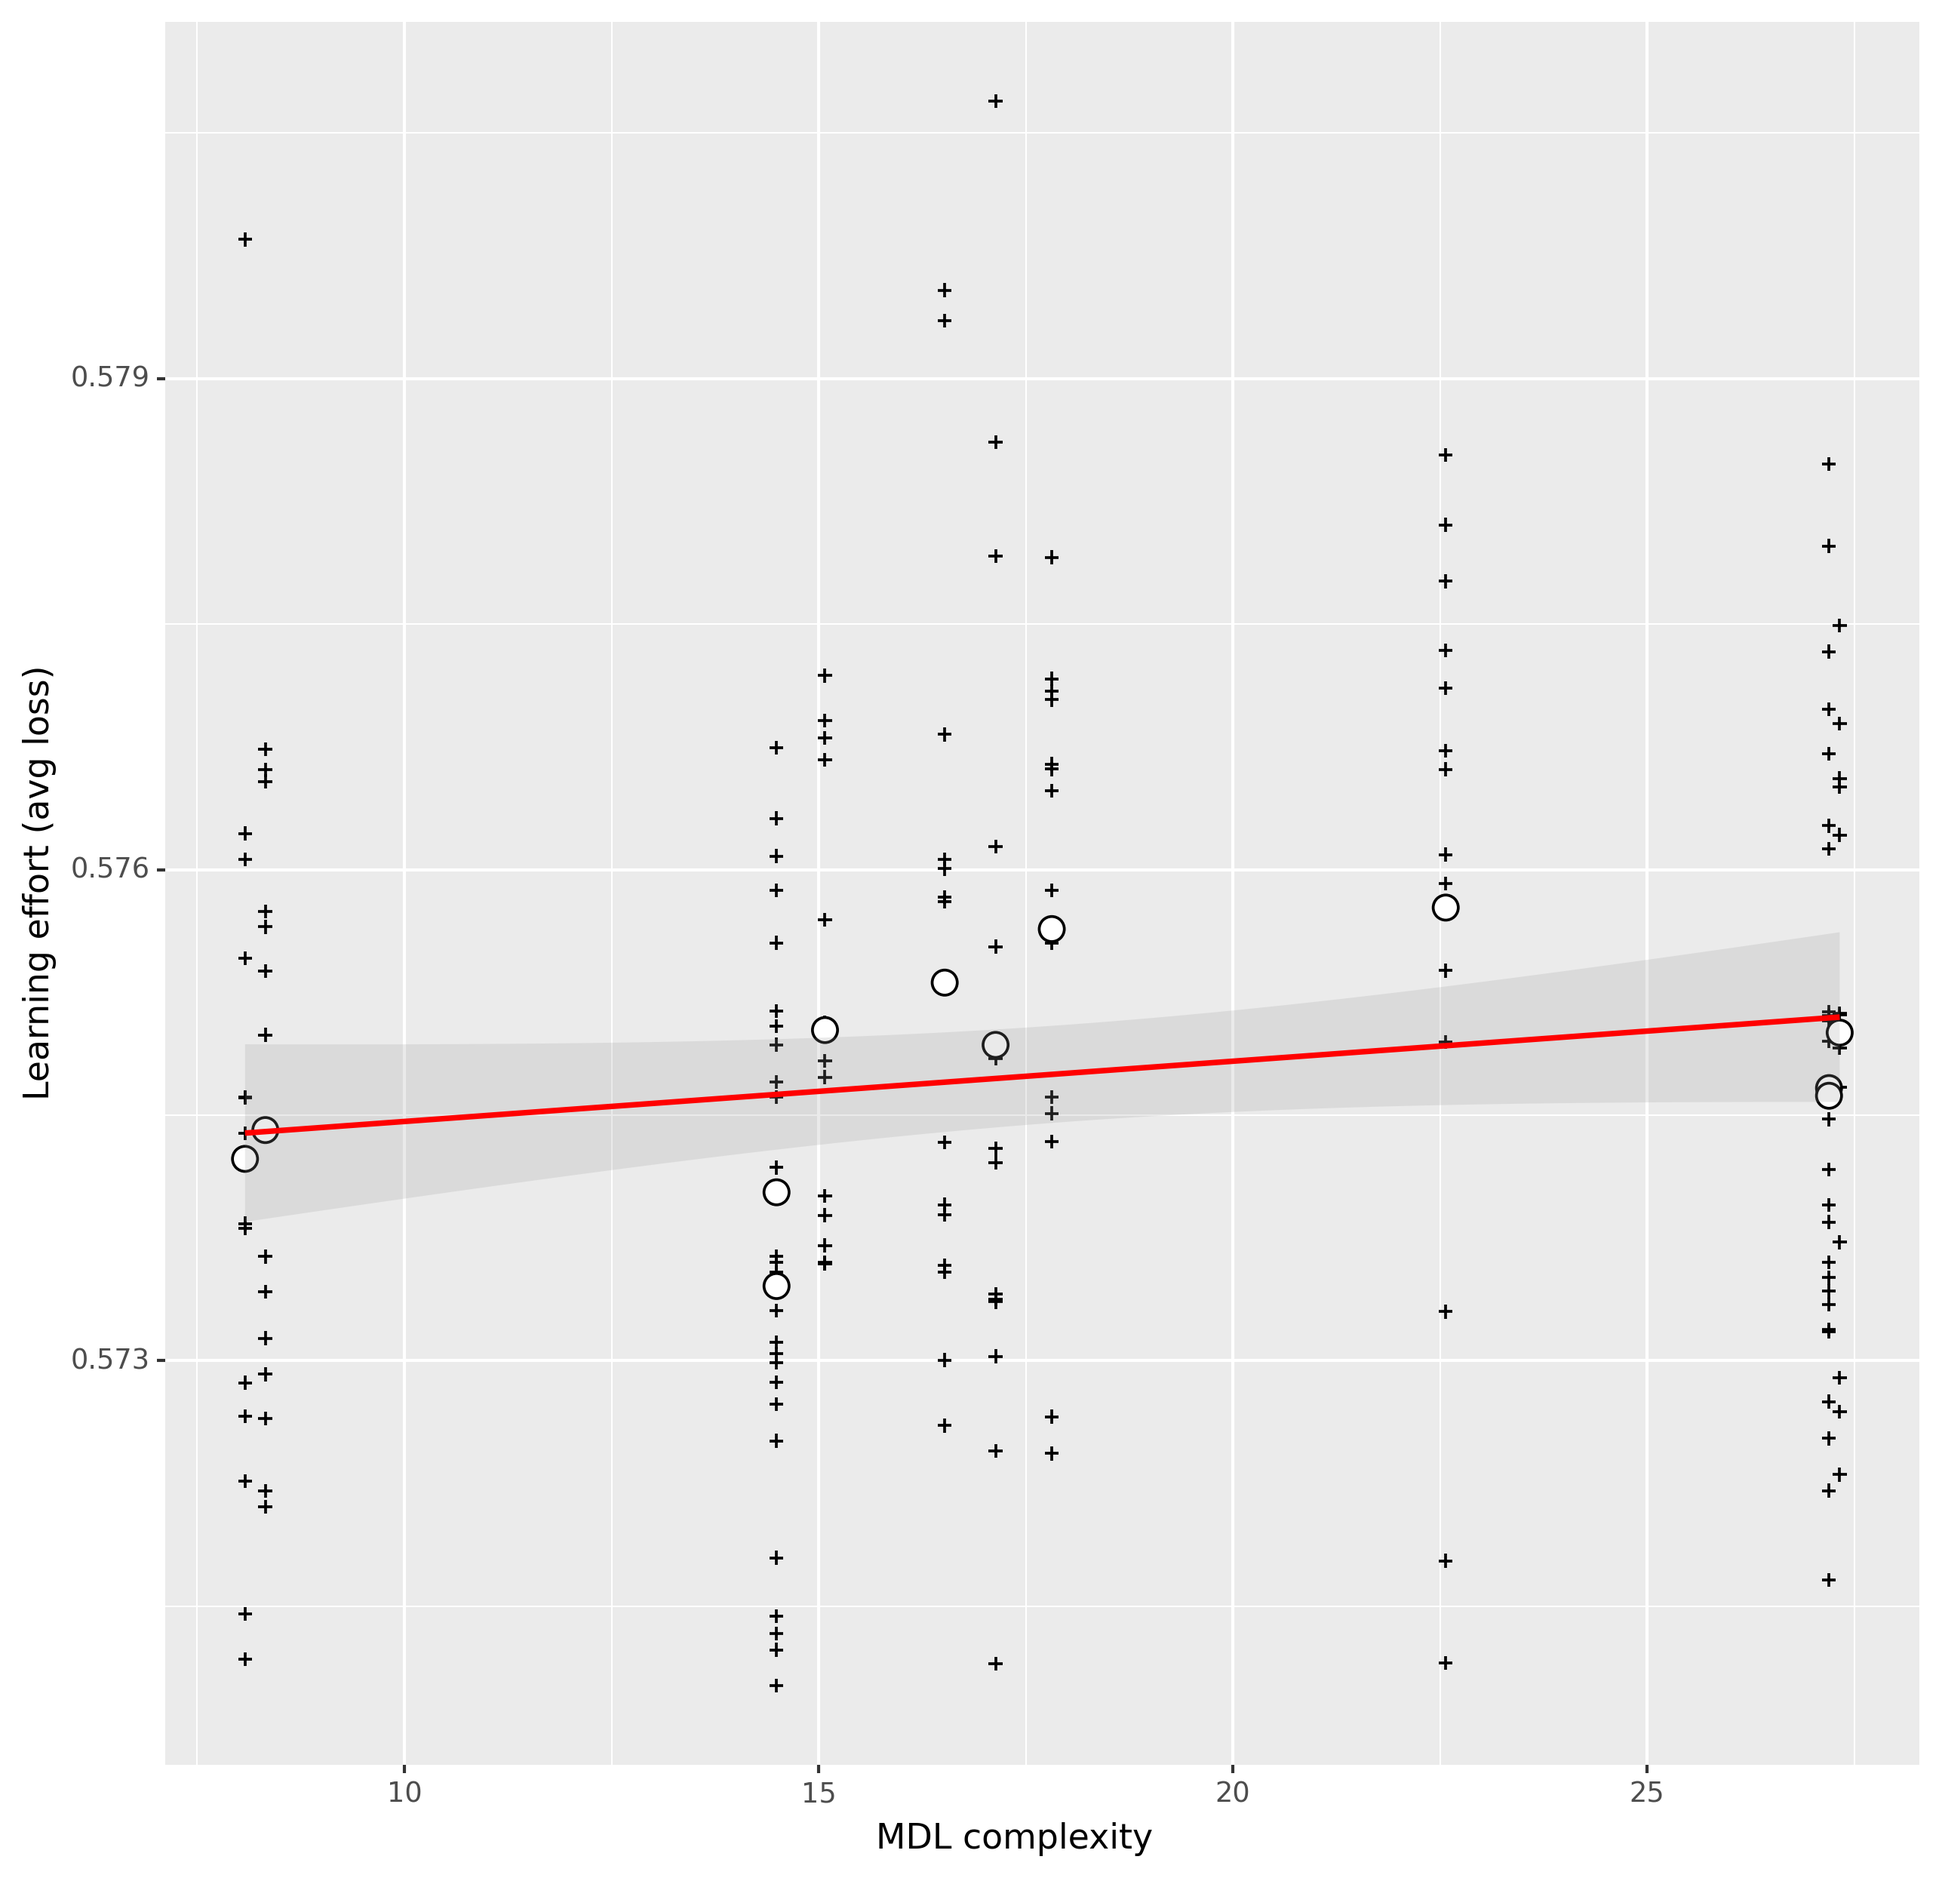
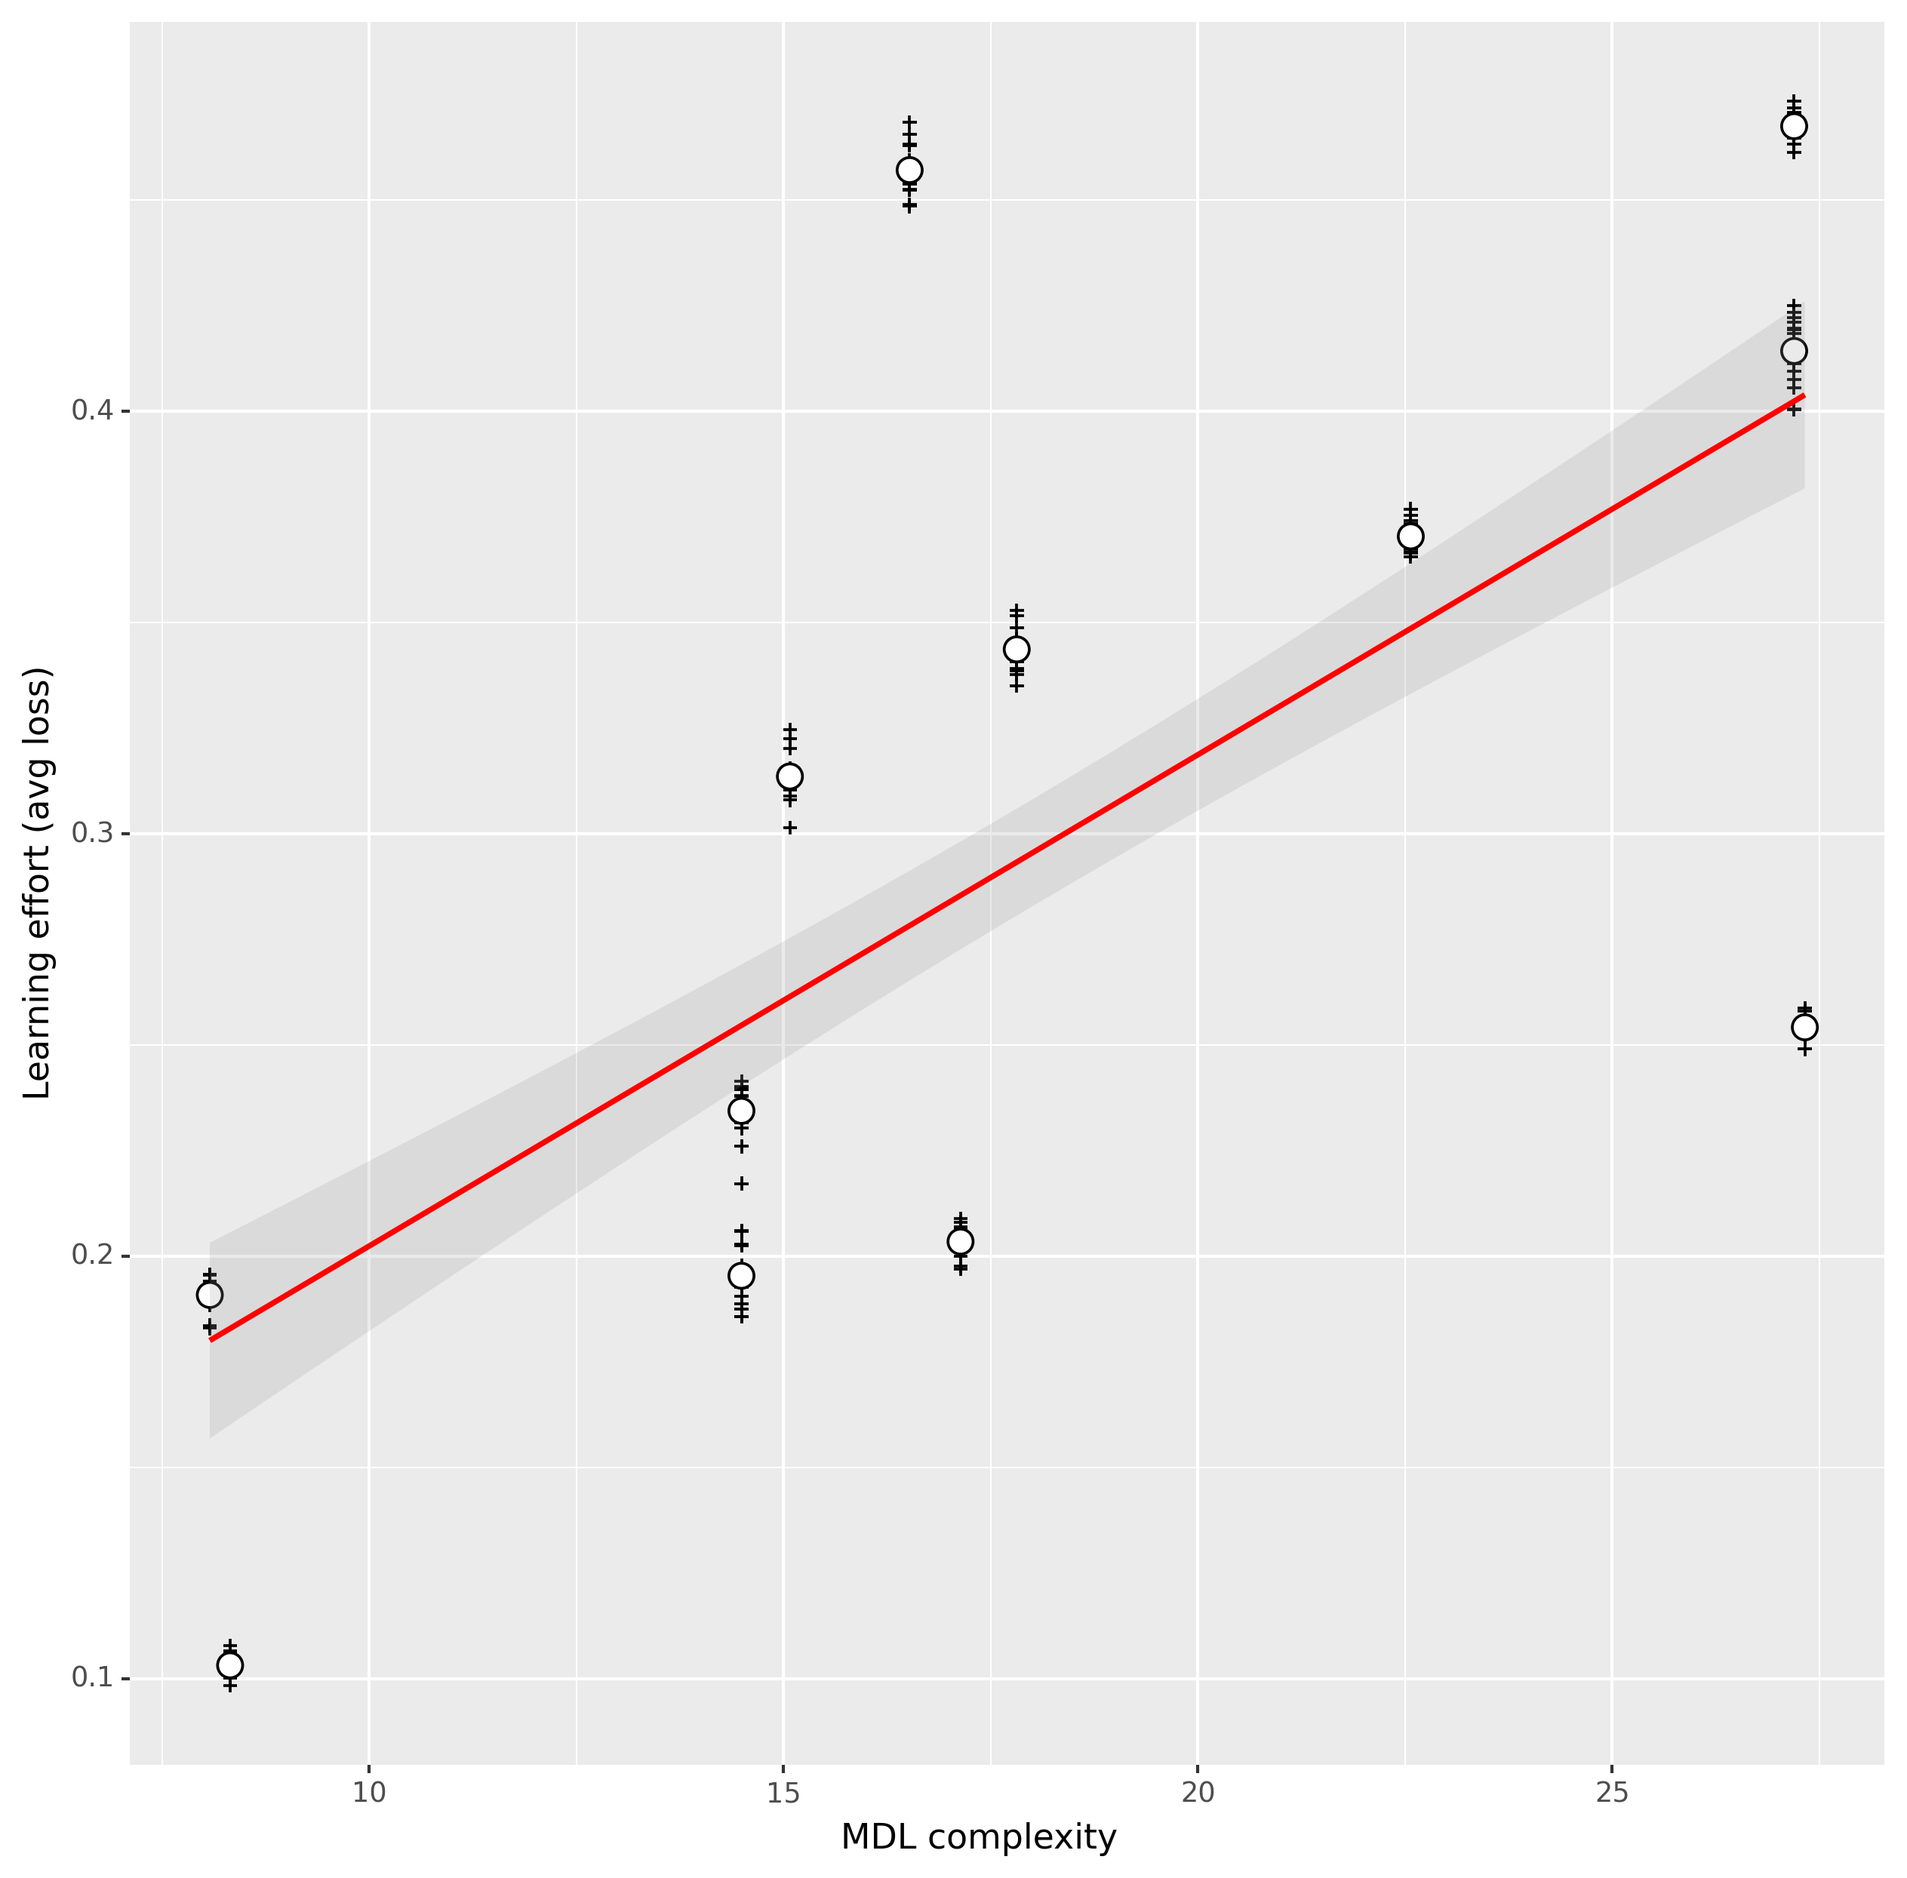
mlp trained on coordinates shows strong correlation with mdl, but high variance in means, suggesting poor chi square fit

diff --git a/src/learner.py b/src/learner.py
@@ -8,12 +8,24 @@ from torch import nn
 # a multilayer perceptron.
 ############################################################################
 
-class MLP0(nn.Module):
+def get_coordinates(x: torch.Tensor):
+    """Get the coordinate pair (i,j) of a 2D one-hot vector."""
+    t = torch.nonzero(x).squeeze(0) # of shape [batch_size, 3]
+    t = t[:, 1:].type(torch.float) # get all but first column
+    return t # shape [batch_size, 2]
+
+class MLP(nn.Module):
+    def __init__(self) -> None:
+        super(MLP, self).__init__()
+        self.coordinates = get_coordinates
+
+class MLP0(MLP):
     def __init__(self) -> None:
         super(MLP0, self).__init__()
-        self.flatten = nn.Flatten()
+        self.flatten = nn.Flatten()        
         self.linear_relu_stack = nn.Sequential(
-            nn.Linear(4 * 4, 16),  # input dim
+            # nn.Linear(4 * 4, 16),  # input dim
+            nn.Linear(2, 16),
             nn.ReLU(),
             nn.Linear(16, 16), # hidden layer 1
             nn.ReLU(),
@@ -23,36 +35,41 @@ class MLP0(nn.Module):
         )
 
     def forward(self, x):
-        x = self.flatten(x)
+        # x = self.flatten(x)
+        x = self.coordinates(x)
         logit = self.linear_relu_stack(x)
         output = torch.sigmoid(logit)
         return output
 
-class MLP1(nn.Module):
+class MLP1(MLP):
     def __init__(self) -> None:
         super(MLP1, self).__init__()
         self.flatten = nn.Flatten()
         self.linear_relu_stack = nn.Sequential(
-            nn.Linear(4 * 4, 64),  # input dim
+            nn.Linear(2, 100),  # input dim
             nn.ReLU(),
-            nn.Linear(64, 64),
+            nn.Linear(100, 500), # hidden layer 1
             nn.ReLU(),
-            nn.Linear(64, 64),
-            nn.ReLU(),
-            nn.Linear(64, 64),
-            nn.ReLU(),
-            nn.Linear(64, 64),
-            nn.ReLU(),                                    
-            nn.Linear(64, 1),  # binary classify into 0,1
+            nn.Linear(500, 100), # hidden layer 2
+            nn.ReLU(),            
+            nn.Linear(100, 1),  # binary classify into 0,1
         )
 
     def forward(self, x):
-        x = self.flatten(x)
+        # x = self.flatten(x)
+        x = self.coordinates(x)        
+        logit = self.linear_relu_stack(x)
+        output = torch.sigmoid(logit)
+        return output    
+
+    def forward(self, x):
+        # x = self.flatten(x)
+        x = self.coordinates(x)        
         logit = self.linear_relu_stack(x)
         output = torch.sigmoid(logit)
         return output
 
-class MLPLarge0(nn.Module):
+class MLPLarge0(MLP):
     def __init__(self) -> None:
         super(MLPLarge0, self).__init__()
         self.flatten = nn.Flatten()
@@ -68,6 +85,7 @@ class MLPLarge0(nn.Module):
 
     def forward(self, x):
         x = self.flatten(x)
+        x = self.coordinates(x)        
         logit = self.linear_relu_stack(x)
         output = torch.sigmoid(logit)
         return output    
@@ -80,7 +98,11 @@ class MLPLarge0(nn.Module):
 # Note that pytorch convolution-based layers demands we reshape our input from [batch, width, height] into Tensors of shape [batch, channels, width, height]
 ############################################################################
 
-class CNN0(nn.Module):
+class CNN(nn.Module):
+    def __init__(self) -> None:
+        super(CNN, self).__init__()
+
+class CNN0(CNN):
     def __init__(self) -> None:
         super(CNN0, self).__init__()
         # input shape: [batch_size, in_channels, H, W]
@@ -156,7 +178,7 @@ class CNN0(nn.Module):
         x = torch.sigmoid(x)
         return x
 
-class CNN1(nn.Module):
+class CNN1(CNN):
     def __init__(self) -> None:
         super(CNN1, self).__init__()
         # input shape: [batch_size, in_channels, H, W]
@@ -219,7 +241,7 @@ class CNN1(nn.Module):
         x = torch.sigmoid(x)
         return x
 
-class CNN2(nn.Module):
+class CNN2(CNN):
     """Copied from https://medium.com/@nutanbhogendrasharma/pytorch-convolutional-neural-network-with-mnist-dataset-4e8a4265e118
     """
     def __init__(self):
